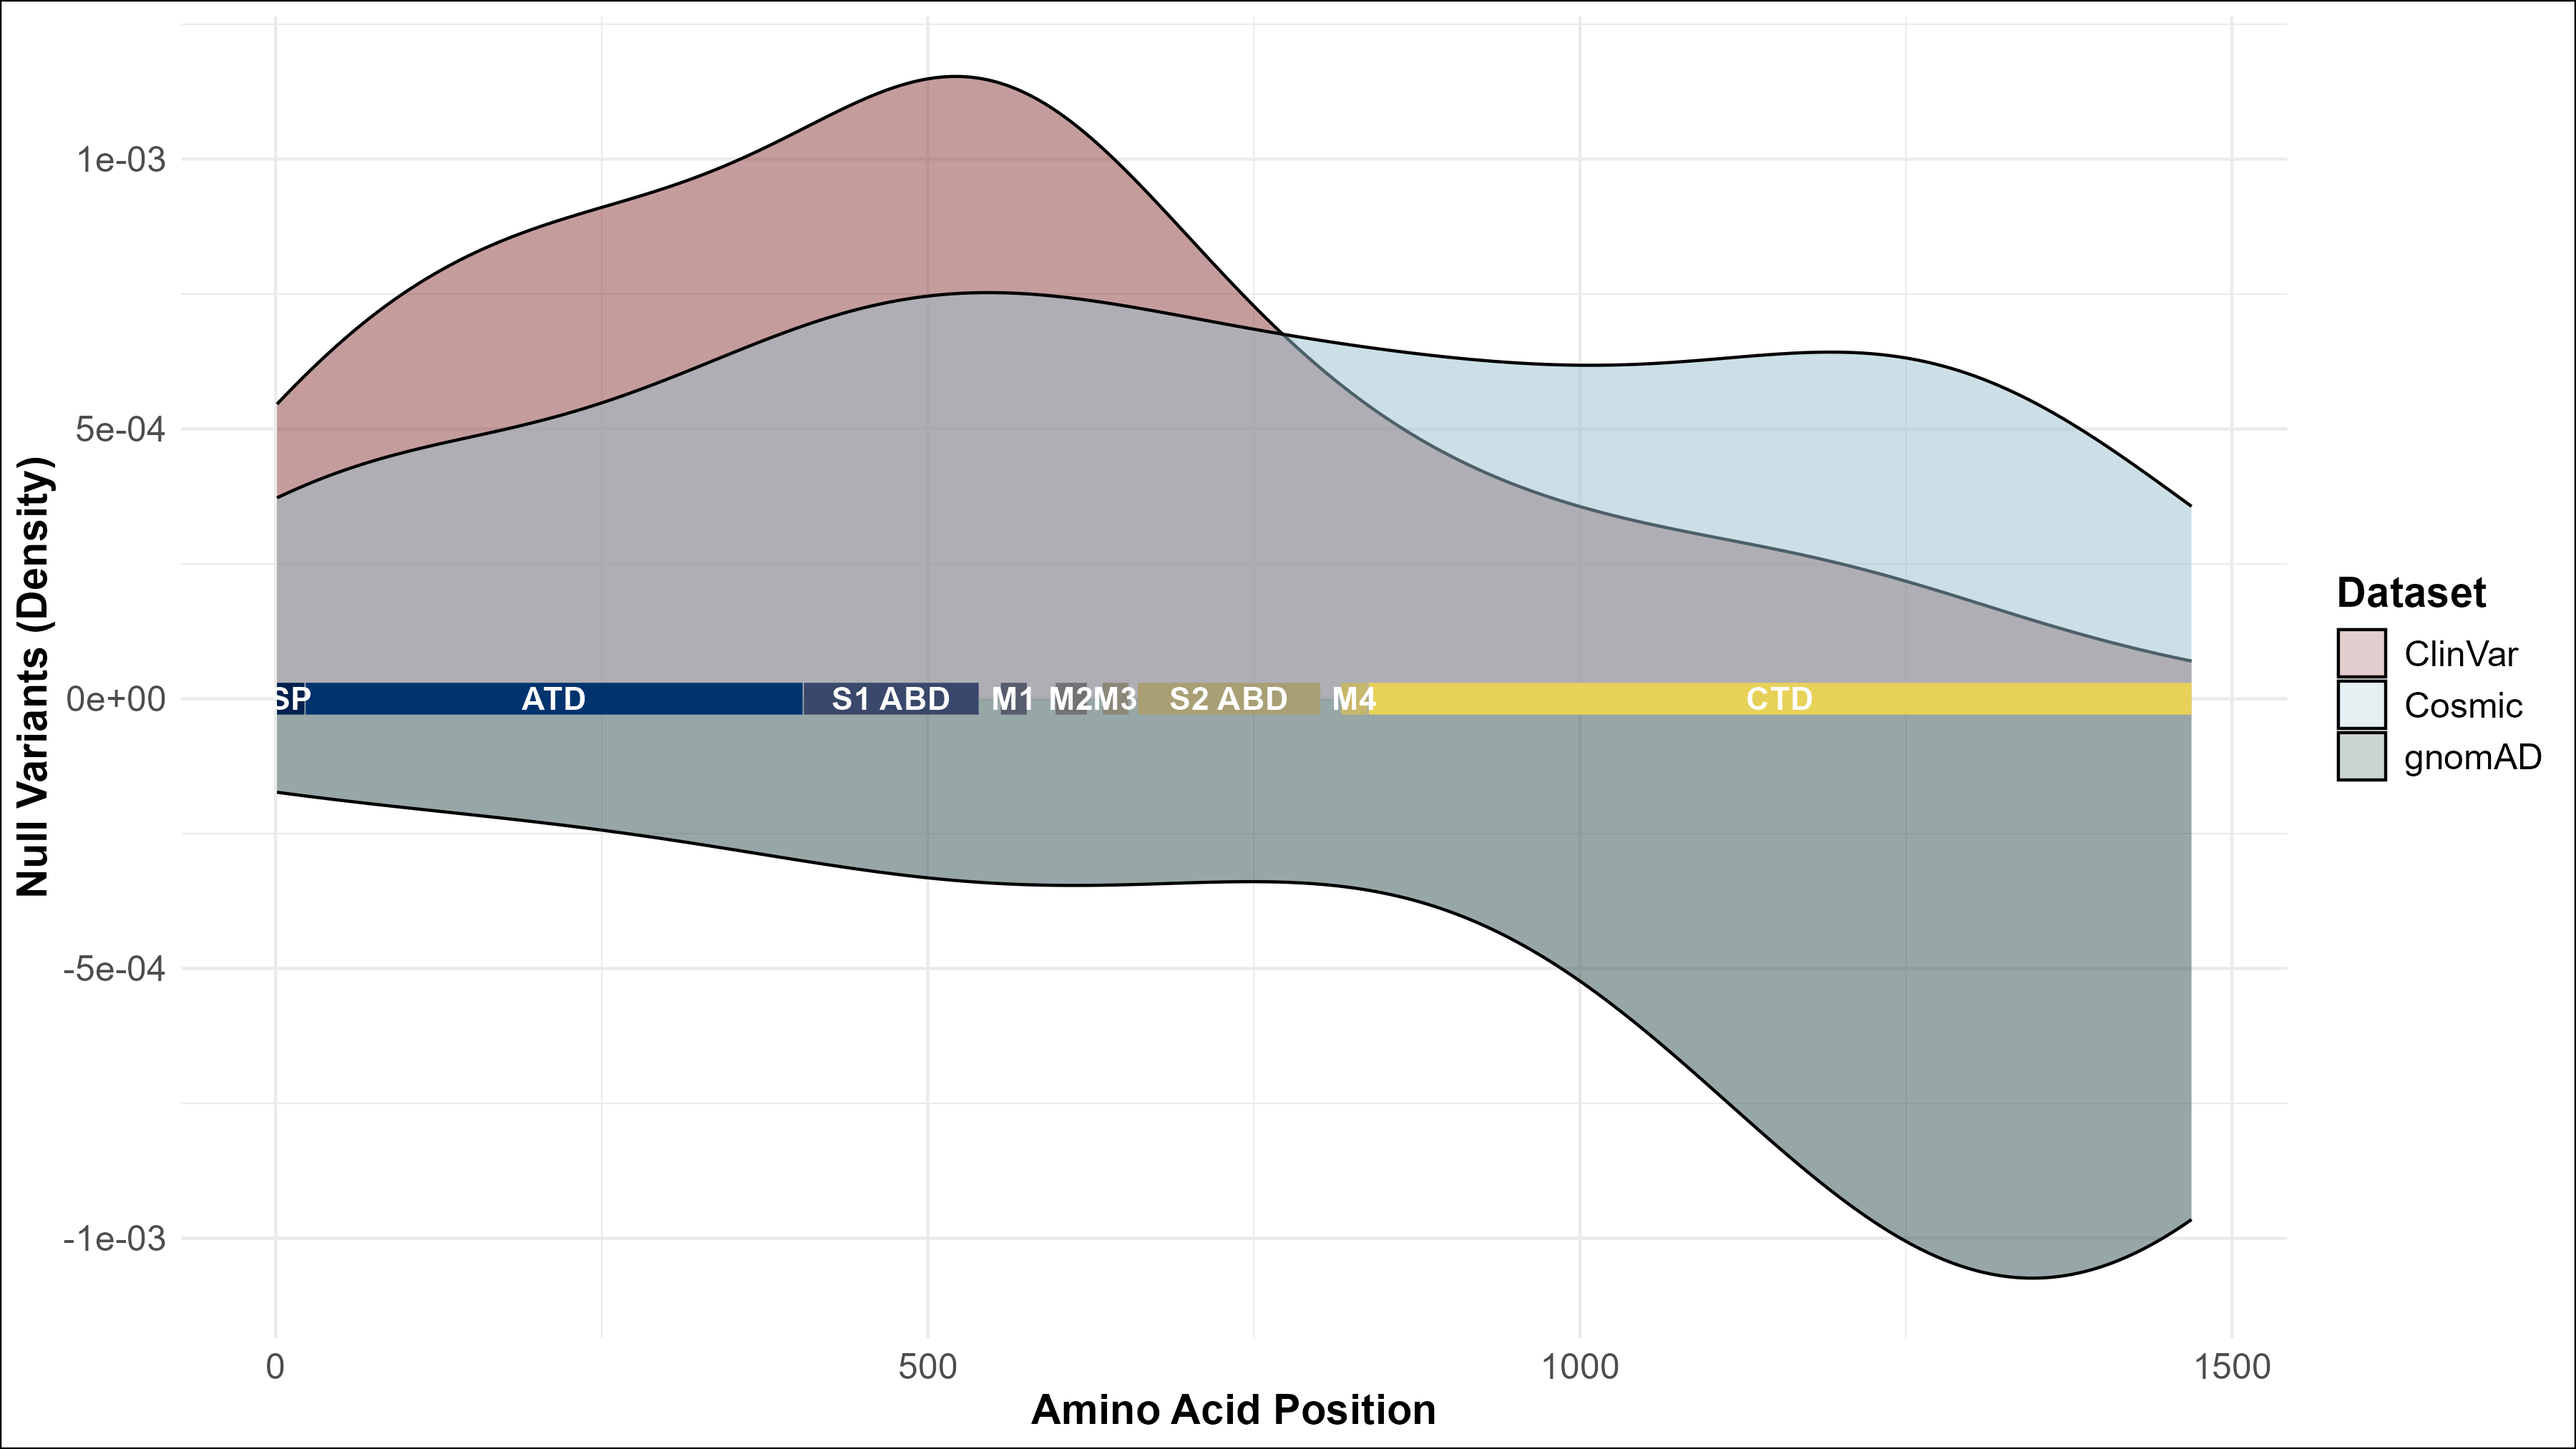
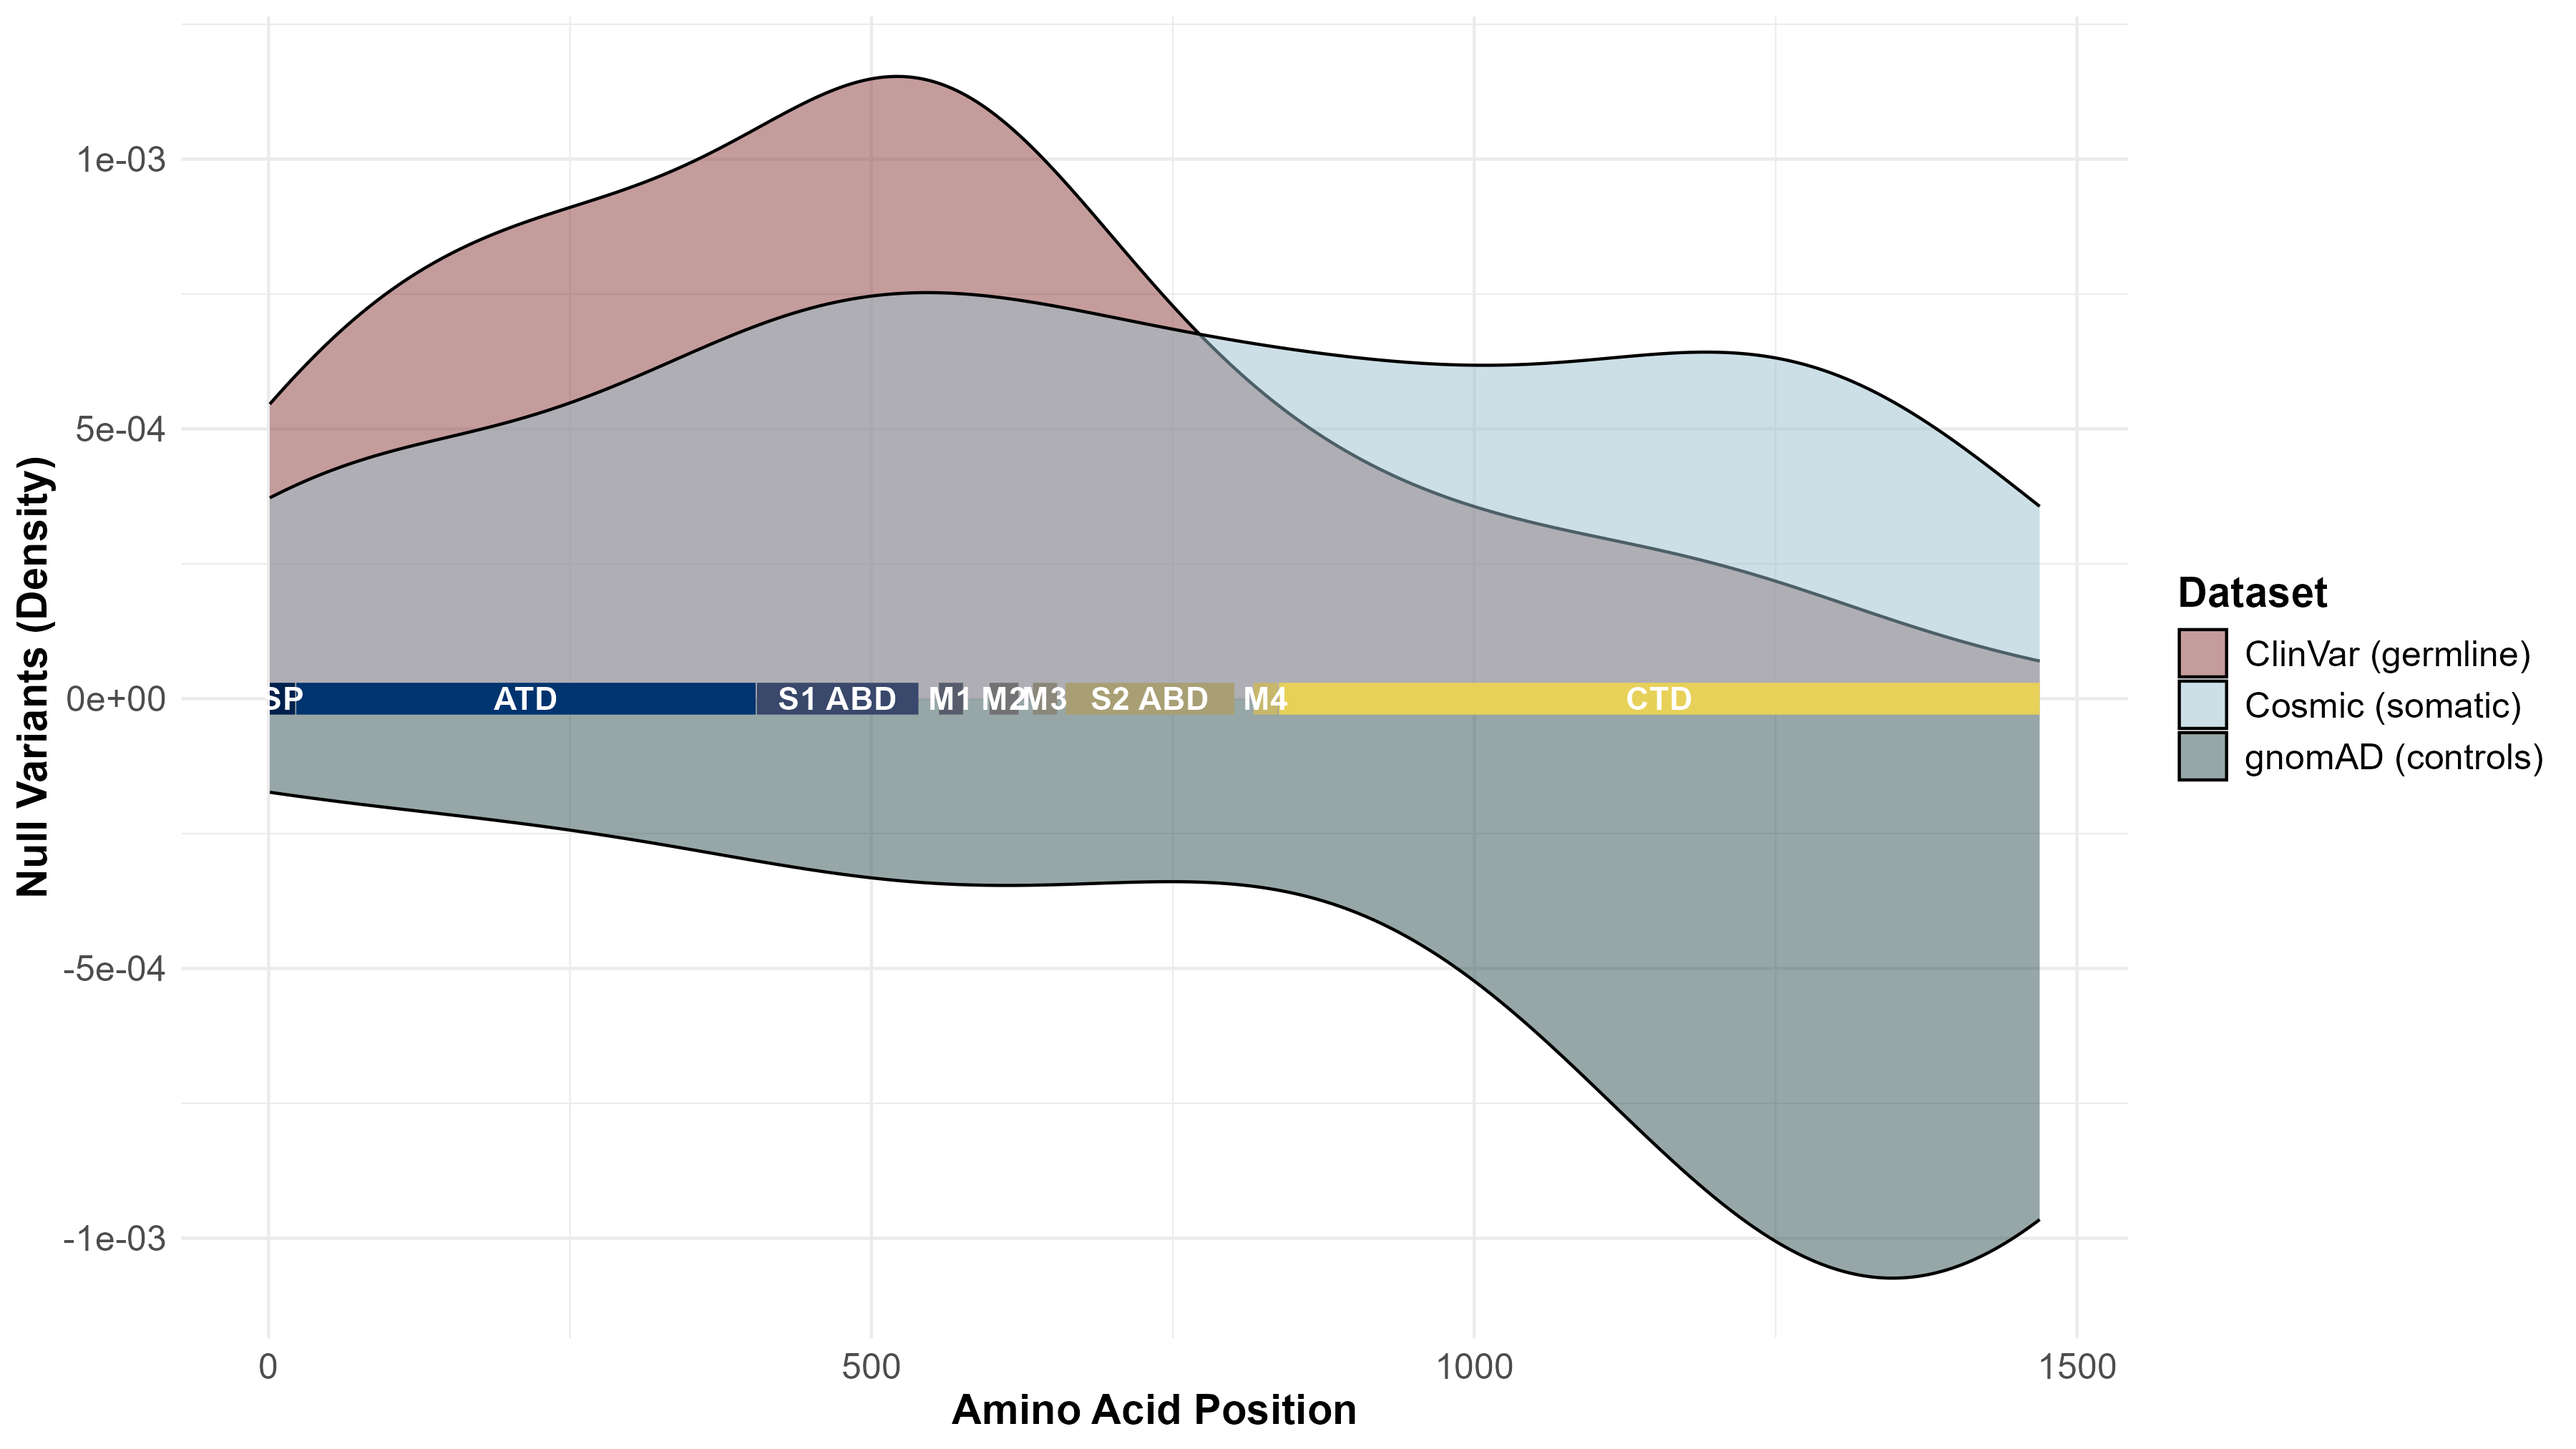
Updated Plots based on reviewer's suggestions

diff --git a/Readme.md b/Readme.md
@@ -222,11 +222,11 @@ variants 2. missense only 3. Null variants only
 plot_variant_density = function(input_df, label_prefix = ""){
   g = ggplot(input_df, aes(x = Protein_position2)) + 
   geom_density(data = (input_df %>% select(Protein_position2, gnomAD) %>% filter(!is.na(gnomAD))), 
-               aes(y = -after_stat(density), fill = "gnomAD"), alpha = 0.5) + 
+               aes(y = -after_stat(density), fill = "gnomAD (controls)"), alpha = 0.5) + 
   geom_density(data = (input_df %>% select(Protein_position2, ClinVar) %>% filter(!is.na(ClinVar))), 
-               aes(fill = "ClinVar"), alpha = 0.5) + 
+               aes(fill = "ClinVar (germline)"), alpha = 0.5) + 
   geom_density(data = (input_df %>% select(Protein_position2, Cosmic) %>% filter(!is.na(Cosmic))), 
-               aes(fill = "Cosmic"), alpha = 0.5) + 
+               aes(fill = "Cosmic (somatic)"), alpha = 0.5) + 
   geom_segment(data = domains, 
                aes(x = Start, xend = End, color = Domain), 
                y = 0, yend = 0, 
@@ -237,9 +237,9 @@ plot_variant_density = function(input_df, label_prefix = ""){
   labs(fill = "Dataset", y = paste(label_prefix, "Variants (Density)"), x = "Amino Acid Position") +
   scale_fill_manual(values = c("indianred4", "lightblue3", "darkslategrey")) + 
   scale_color_viridis_d(option = "E", end = 0.9) +
-  guides(fill = guide_legend(override.aes = list(alpha = 0.25))) + 
+  guides(fill = guide_legend(override.aes = list(alpha = 0.5))) + 
   theme_minimal() + 
-  theme(plot.background = element_rect(fill = "white"), 
+  theme(plot.background = element_rect(fill = "white", colour = "white"), 
         axis.title = element_text(size = 14, face = "bold"),
         axis.text = element_text(size = 12),
         legend.title = element_text(size = 14, face = "bold"), 
@@ -257,9 +257,17 @@ Variants_VEP_tidy_null = Variants_VEP_tidy %>%
   filter(Null_variant == T)
 
 ### plot data ###
-g_density = plot_variant_density(Variants_VEP_tidy)
+g_density = plot_variant_density(Variants_VEP_tidy, label_prefix = "All")
 g_density_missense = plot_variant_density(Variants_VEP_tidy_missense, label_prefix = "Missense")
 g_density_null = plot_variant_density(Variants_VEP_tidy_null, label_prefix = "Null")
+
+### combined density plot ###
+g_density_combi = plot_grid(g_density, 
+                  g_density_missense, 
+                  g_density_null, 
+                  labels = "AUTO", 
+                  nrow = 3, 
+                  ncol = 1)
 ```
 
 Now lets have a look at the plots:
@@ -276,18 +284,23 @@ Now lets have a look at the plots:
 
 ![](Readme_files/figure-gfm/Print%20null%20variants-1.png)<!-- -->
 
+#### Combined plot
+
+![](Readme_files/figure-gfm/Print%20combined%20density-1.png)<!-- -->
+
 ### Venn diagramm
 
 With a Venn diagramm we can visualise which variants are present in
 which dataset
 
 ``` r
-x = list(gnomAD = (Variants_VEP_tidy %>% filter(!is.na(gnomAD)))$ID, 
-         Cosmic = (Variants_VEP_tidy %>% filter(!is.na(Cosmic)))$ID, 
-         ClinVar = (Variants_VEP_tidy %>% filter(!is.na(ClinVar)))$ID)
+x = list("gnomAD\n(controls)" = (Variants_VEP_tidy %>% filter(!is.na(gnomAD)))$ID, 
+         "Cosmic\n(somatic)" = (Variants_VEP_tidy %>% filter(!is.na(Cosmic)))$ID, 
+         "ClinVar\n(germline)" = (Variants_VEP_tidy %>% filter(!is.na(ClinVar)))$ID)
 
 v = ggvenn(x, fill_color = c("darkslategrey", "lightblue3", "indianred4")) + 
-  theme(plot.background = element_rect(fill = "white"))
+  theme(plot.background = element_rect(fill = "white", colour = "white")) + 
+  expand_limits(y = c(-2.5,2.5))
 ```
 
 ![](Readme_files/figure-gfm/Print%20Venn%20diagramm-1.png)<!-- -->
@@ -340,7 +353,10 @@ g_domain = ggplot(Variants_VEP_tidy_domains_melted, aes(fill = Consequence, x = 
   geom_bar(position = "fill") + 
   facet_grid(cols = vars(Dataset), 
              rows = vars(Domain), 
-             switch = "y") + 
+             switch = "y", 
+             labeller = labeller(Dataset = c('ClinVar' = "ClinVar\n(germline)", 
+                                             'Cosmic' = "Cosmic\n(somatic)", 
+                                             'gnomAD' = "gnomAD\n(controls)"))) + 
   coord_polar(theta = "y") + 
   theme_minimal() + 
   scale_y_continuous(labels = NULL, breaks = NULL, position = "bottom") +
@@ -348,7 +364,7 @@ g_domain = ggplot(Variants_VEP_tidy_domains_melted, aes(fill = Consequence, x = 
   scale_fill_viridis_d() + 
   theme(strip.text = element_text(size = 12), 
         panel.grid = element_blank(), 
-        plot.background = element_rect(fill = "white"), 
+        plot.background = element_rect(fill = "white", colour = "white"), 
         axis.title = element_text(size = 14, face = "bold"),
         axis.text = element_text(size = 12),
         legend.title = element_text(size = 14, face = "bold"), 
